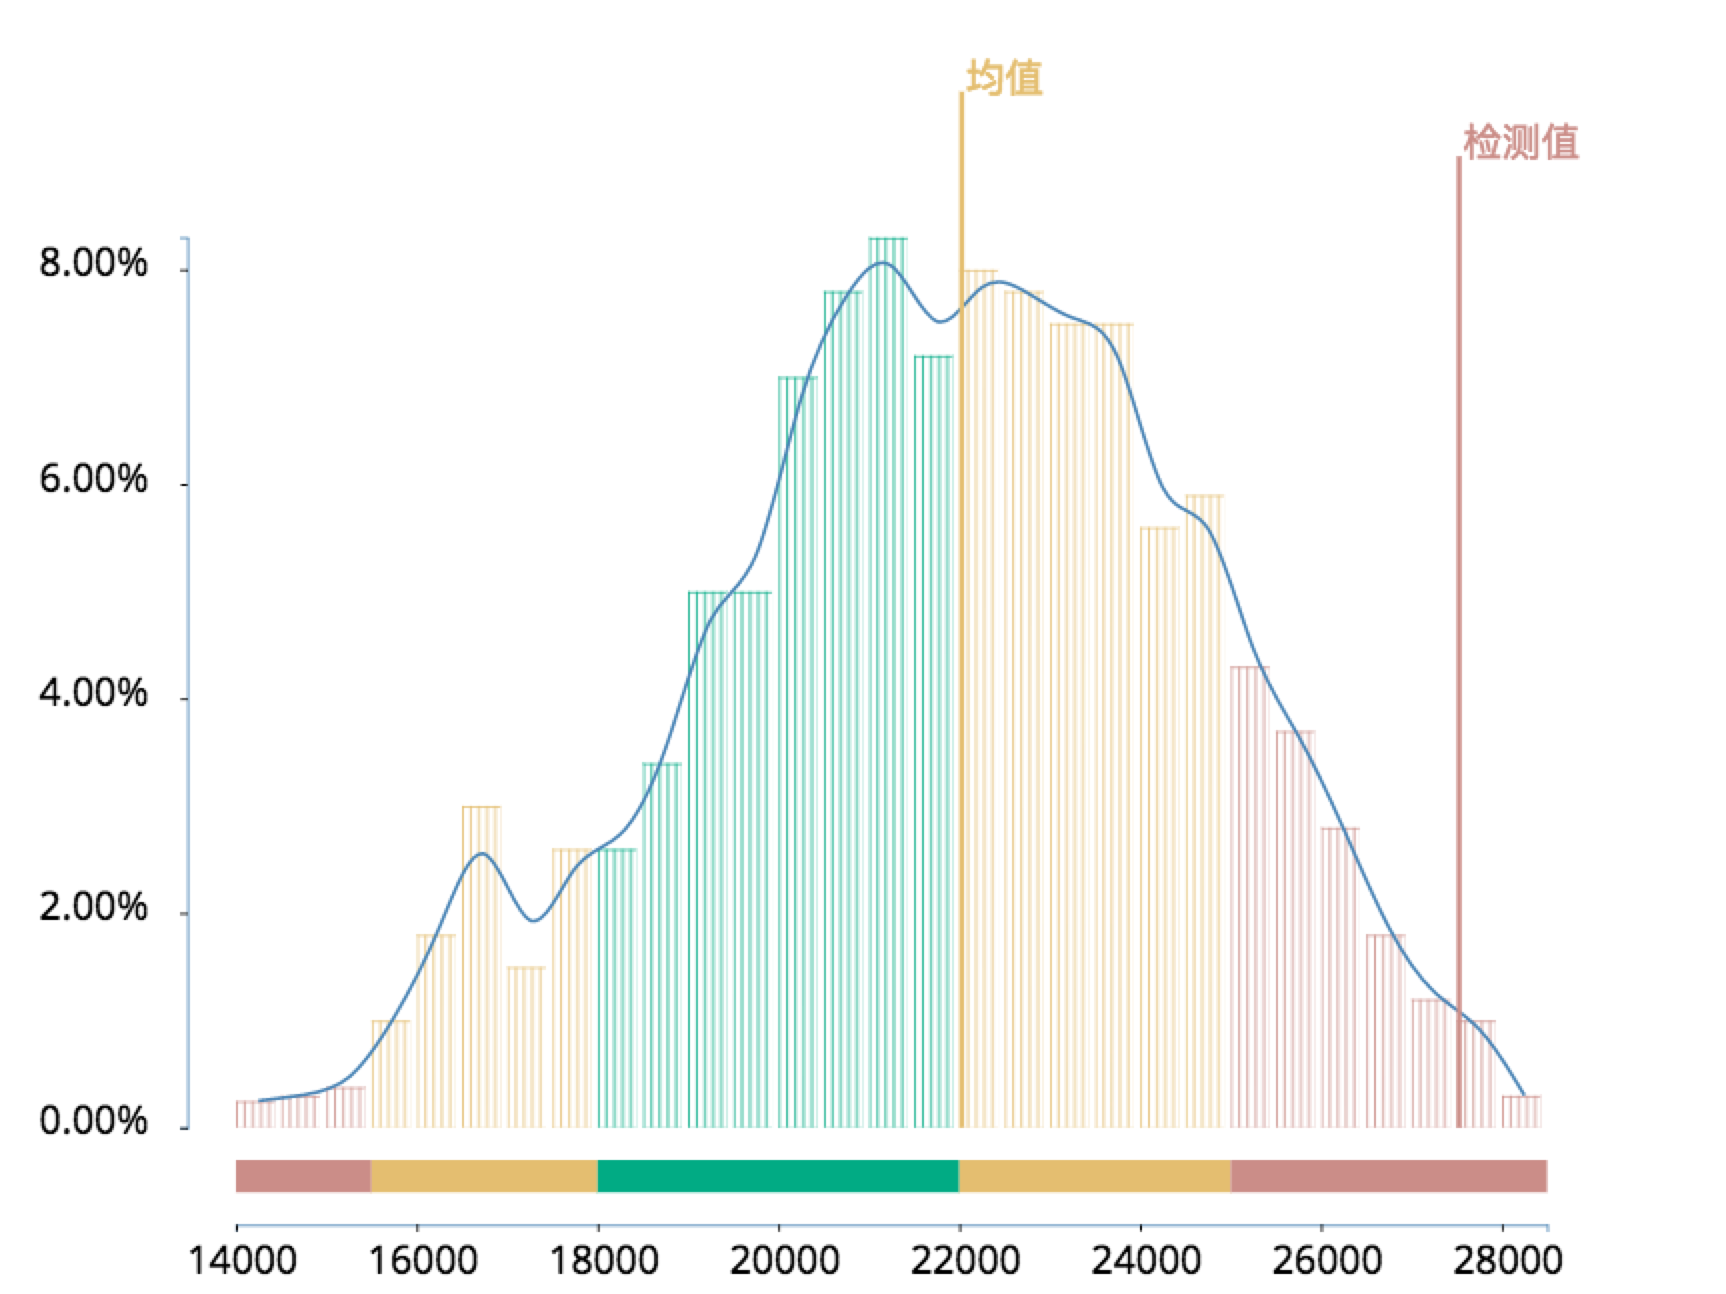
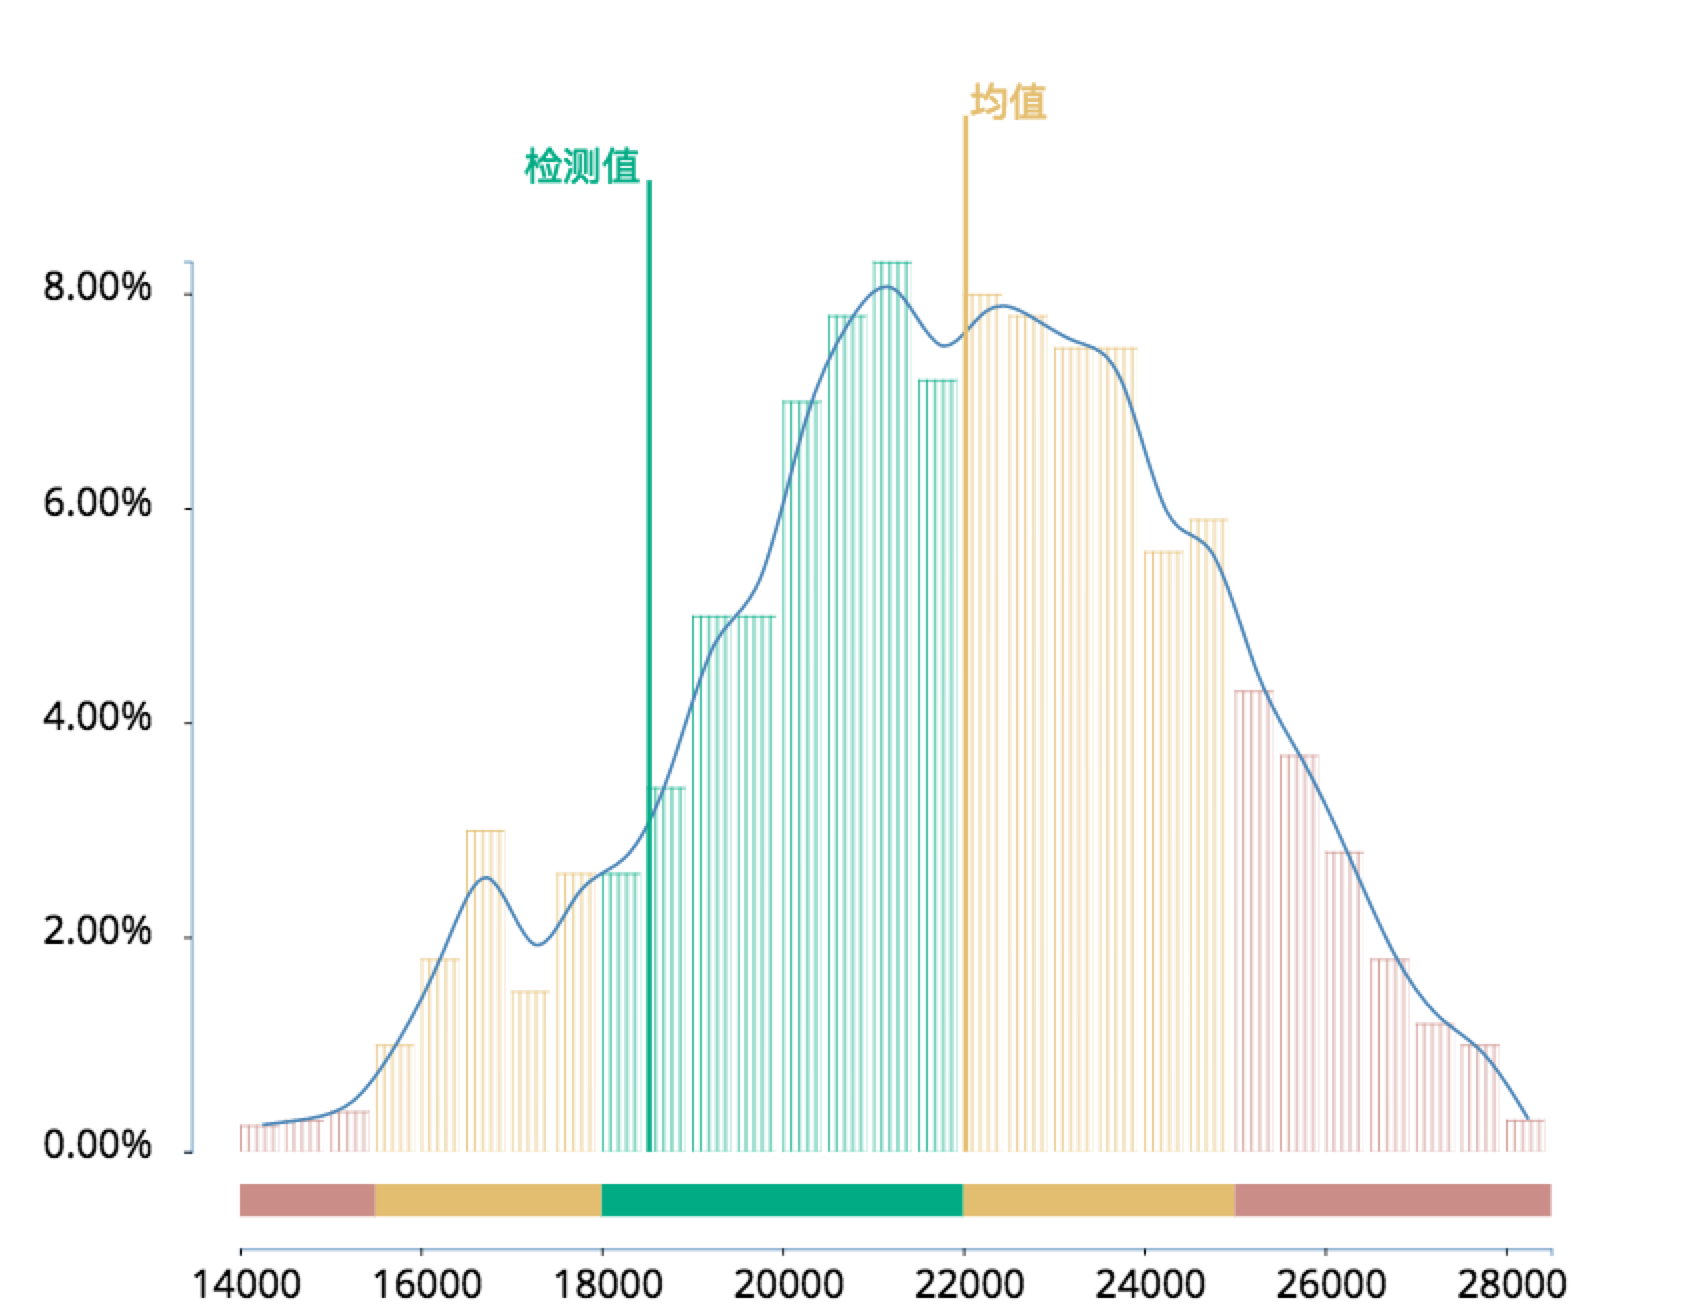
enhance with boundary detection

Changed region(s): [[0.0, 0.0309, 0.932, 1.0], [0.3107, 0.0927, 0.3728, 0.1546]]

diff --git a/bin/data2graphics.rollup.js b/bin/data2graphics.rollup.js
@@ -2818,7 +2818,7 @@ var baseConf$4 = {
     // "mean": 0,
     "gap": [15500, 18000, 22000, 25000],
     'indicator': {
-        'value': 16000,
+        'value': 18500,
         'text': {
             'cn': '检测值',
             'en': 'adad'
@@ -2936,7 +2936,7 @@ function metabolism(parent, config) {
     detectSVG(parent);
 
     var svg = d3$10.select('#' + parent.id + ' svg'),
-        margin = { top: 50, right: 60, bottom: 150, left: 130 };
+        margin = { top: 100, right: 60, bottom: 150, left: 130 };
 
     svg.attr('width', 1000).attr('height', 800);
 
@@ -2971,9 +2971,9 @@ function metabolism(parent, config) {
         return d;
     });
 
-    g.append('g').attr('class', 'axis axis--x').attr('transform', 'translate(30,' + (height + 70) + ')').call(customXAxis);
+    g.append('g').attr('class', 'axis axis--x').attr('transform', 'translate(30,' + (height + 110) + ')').call(customXAxis);
 
-    g.append('g').attr('class', 'axis axis--y').attr('transform', 'translate(0,0)').call(customYAxis);
+    g.append('g').attr('class', 'axis axis--y').attr('transform', 'translate(0,50)').call(customYAxis);
 
     function customXAxis(g) {
         g.call(xAxis);
@@ -2996,7 +2996,7 @@ function metabolism(parent, config) {
     }
 
     var bar = g.selectAll(".bar").data(input.data).enter().append("g").attr("class", "bar").attr("transform", function (d) {
-        return "translate(" + (x(d.x[0]) - 70) + "," + y(d.y) + ")";
+        return "translate(" + (x(d.x[0]) - 70) + "," + (y(d.y) + 50) + ")";
     });
 
     bar.append("rect").attr("x", 100).attr('fill', function (e, i) {
@@ -3056,7 +3056,7 @@ function metabolism(parent, config) {
         return y(d.y);
     }).curve(d3$10.curveBasis);
 
-    g.append("path").datum(data).attr('transform', 'translate(30,0)').attr("class", "line").attr('fill', 'none').attr('stroke-width', 2).attr("d", line);
+    g.append("path").datum(data).attr('transform', 'translate(30,50)').attr("class", "line").attr('fill', 'none').attr('stroke-width', 2).attr("d", line);
 
     // bottom color rect bar
     var bottomRectGap = [[input.data[0].x[0], input.gap[0]], [input.gap[0], input.gap[1]], [input.gap[1], input.gap[2]], [input.gap[2], input.gap[3]], [input.gap[3], input.data[input.data.length - 1].x[1]]];
@@ -3077,29 +3077,36 @@ function metabolism(parent, config) {
 
         return color;
     });
+    // average
+    legend('average', input.average, g, 40);
 
     // indicators
-    legend('indicator', input.indicator, g);
-    // average
-    legend('average', input.average, g);
+    // 
+    console.log(x(input.indicator.value) - x(input.average.value));
+    if (x(input.indicator.value) - x(input.average.value) < -10) {
+        legend('indicator', input.indicator, g, 0, false);
+    } else {
+        legend('indicator', input.indicator, g, 0);
+    }
 
     function legend(type, obj, g) {
+        var bias = arguments.length > 3 && arguments[3] !== undefined ? arguments[3] : 0;
+        var onOff = arguments.length > 4 && arguments[4] !== undefined ? arguments[4] : true;
+
         var oLegend = g.append('g').attr('transform', 'translate(' + (30 + x(obj.value)) + ',0)');
 
         var color = '#cb8d88';
 
-        obj.value < input.gap[1] && (color = colors5[1]) || obj.value < input.gap[2] && (color = colors5[2]) || obj.value < input.gap[3] && (color = colors5[3]) || obj.value < input.gap[4] && (color = colors5[4]);
+        obj.value < input.gap[0] && (color = colors5[0]) || obj.value < input.gap[1] && (color = colors5[1]) || obj.value < input.gap[2] && (color = colors5[2]) || obj.value < input.gap[3] && (color = colors5[3]) || obj.value < input.gap[4] && (color = colors5[4]);
 
-        oLegend.append('rect').attr('x', 0).attr('y', 0).attr('width', 3).attr('height', 600).attr('fill', function () {
+        oLegend.append('rect').attr('x', 0).attr('y', 0 - bias).attr('width', 3).attr('height', 600 + bias).attr('fill', function () {
             return color;
         });
         oLegend.append('text').attr('text-anchor', function () {
-            if (obj.value < input.gap[2]) {
-                return 'start';
-            } else {
-                return 'start';
-            }
-        }).attr('x', 4).attr('y', 0).attr('font-family', 'adad').attr('font-size', 24).style('fill', function () {
+            return onOff ? 'start' : 'end';
+        }).attr('x', function () {
+            return onOff ? 4 : -4;
+        }).attr('y', 0 - bias).attr('font-family', 'adad').attr('font-size', 24).style('fill', function () {
             return color;
         }).text(obj.text.cn);
     }
@@ -3112,7 +3119,7 @@ function metabolism(parent, config) {
     
 }
 
-var lineRect3Config = [0.5, 0.8];
+var lineRect3Config = [0, 0.99];
 
 var lineRect5Config = [0.1, 0.3, 0.5, 0.9];
 
